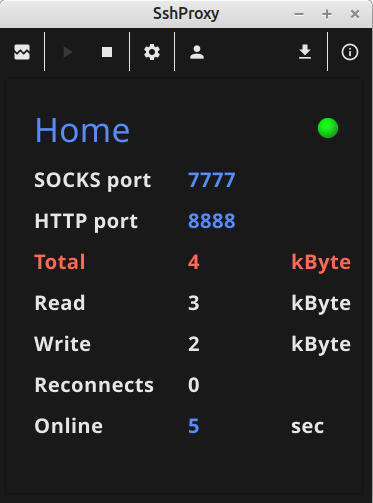
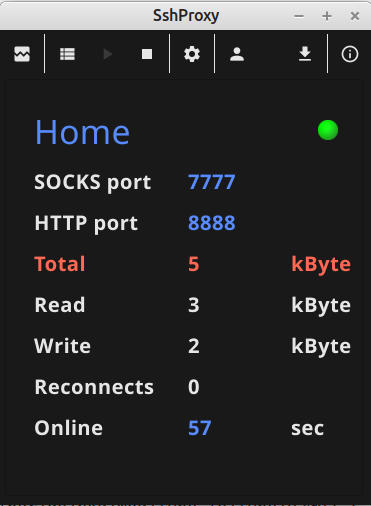
Bug fix with empty list

diff --git a/main.go b/main.go
@@ -67,6 +67,7 @@ type GUI struct {
 	toolStop         *widget.ToolbarAction
 	toolChangePasswd *widget.ToolbarAction
 	toolUpdate       *widget.ToolbarAction
+	toolList         *widget.ToolbarAction
 
 	Scroll *container.Scroll
 
@@ -191,9 +192,12 @@ func main() {
 	Gui.toolUpdate = widget.NewToolbarAction(theme.DownloadIcon(), func() {
 		CheckForUpdate(false)
 	})
+	Gui.toolList = widget.NewToolbarAction(theme.ListIcon(), func() {
+		UpdateCards()
+	})
 
 	Gui.Toolbar = widget.NewToolbar(Gui.toolToggleThema, widget.NewToolbarSeparator(),
-		Gui.toolStart, Gui.toolStop, widget.NewToolbarSeparator(), Gui.toolSettings,
+		Gui.toolList, Gui.toolStart, Gui.toolStop, widget.NewToolbarSeparator(), Gui.toolSettings,
 		widget.NewToolbarSeparator(), Gui.toolChangePasswd,
 		widget.NewToolbarSpacer(), Gui.toolUpdate, widget.NewToolbarSeparator(), Gui.toolInfo)
 
@@ -315,6 +319,16 @@ func UpdateToolBar() {
 		Gui.toolStart.Disable()
 		Gui.toolStop.Disable()
 	}
+	l, err := Gui.Settings.GetProxyList()
+	if err != nil {
+		Gui.toolList.Disable()
+		return
+	}
+	if len(l) > 1 {
+		Gui.toolList.Enable()
+	} else {
+		Gui.toolList.Disable()
+	}
 }
 
 func UpdateCards() {
@@ -368,10 +382,15 @@ func UpdateCards() {
 		var windowScale float32 = 1.0
 		dia.Resize(fyne.NewSize(si.Width*windowScale, dia.MinSize().Height))
 	} else {
-		Data.datas = make([]*ProxyEntry, 1, 1)
-		Data.datas[0] = proxies[0]
-		f()
+		if len(proxies) > 0 {
+			Data.datas = make([]*ProxyEntry, 1)
+			Data.datas[0] = proxies[0]
+			f()
+		} else {
+			Data.datas = nil
+		}
 	}
+	UpdateToolBar()
 }
 
 func addCards() {

diff --git a/README.md b/README.md
@@ -34,12 +34,12 @@ SshProxy is written in [Go](https://go.dev/) and uses [Fyne](https://fyne.io/) a
 
 #### Linux (64 Bit)
 
-[Tar file](https://github.com/bytemystery-com/sshproxy/releases/download/v0.2.3/SshProxy.tar.xz)  
-[Standalone binary](https://github.com/bytemystery-com/sshproxy/releases/download/v0.2.3/SshProxy)  
+[Tar file](https://github.com/bytemystery-com/sshproxy/releases/download/v0.2.5/SshProxy.tar.xz)  
+[Standalone binary](https://github.com/bytemystery-com/sshproxy/releases/download/v0.2.5/SshProxy)  
 
 #### Windows (64 Bit)
 
-[Standalone exe](https://github.com/bytemystery-com/sshproxy/releases/download/v0.2.3/SshProxy.exe)  
+[Standalone exe](https://github.com/bytemystery-com/sshproxy/releases/download/v0.2.5/SshProxy.exe)  
 
 #### Mac
 
@@ -47,8 +47,8 @@ Not available - it could be build but requires Mac + SDK.
 
 #### Android 
 
-[APK all in one](https://github.com/bytemystery-com/sshproxy/releases/download/v0.2.3/SshProxy.apk)  
-[APK only 64 bit](https://github.com/bytemystery-com/sshproxy/releases/download/v0.2.3/SshProxy_64.apk)  
+[APK all in one](https://github.com/bytemystery-com/sshproxy/releases/download/v0.2.5/SshProxy.apk)  
+[APK only 64 bit](https://github.com/bytemystery-com/sshproxy/releases/download/v0.2.5/SshProxy_64.apk)  
 
 ### Usage of SshProxy
 
